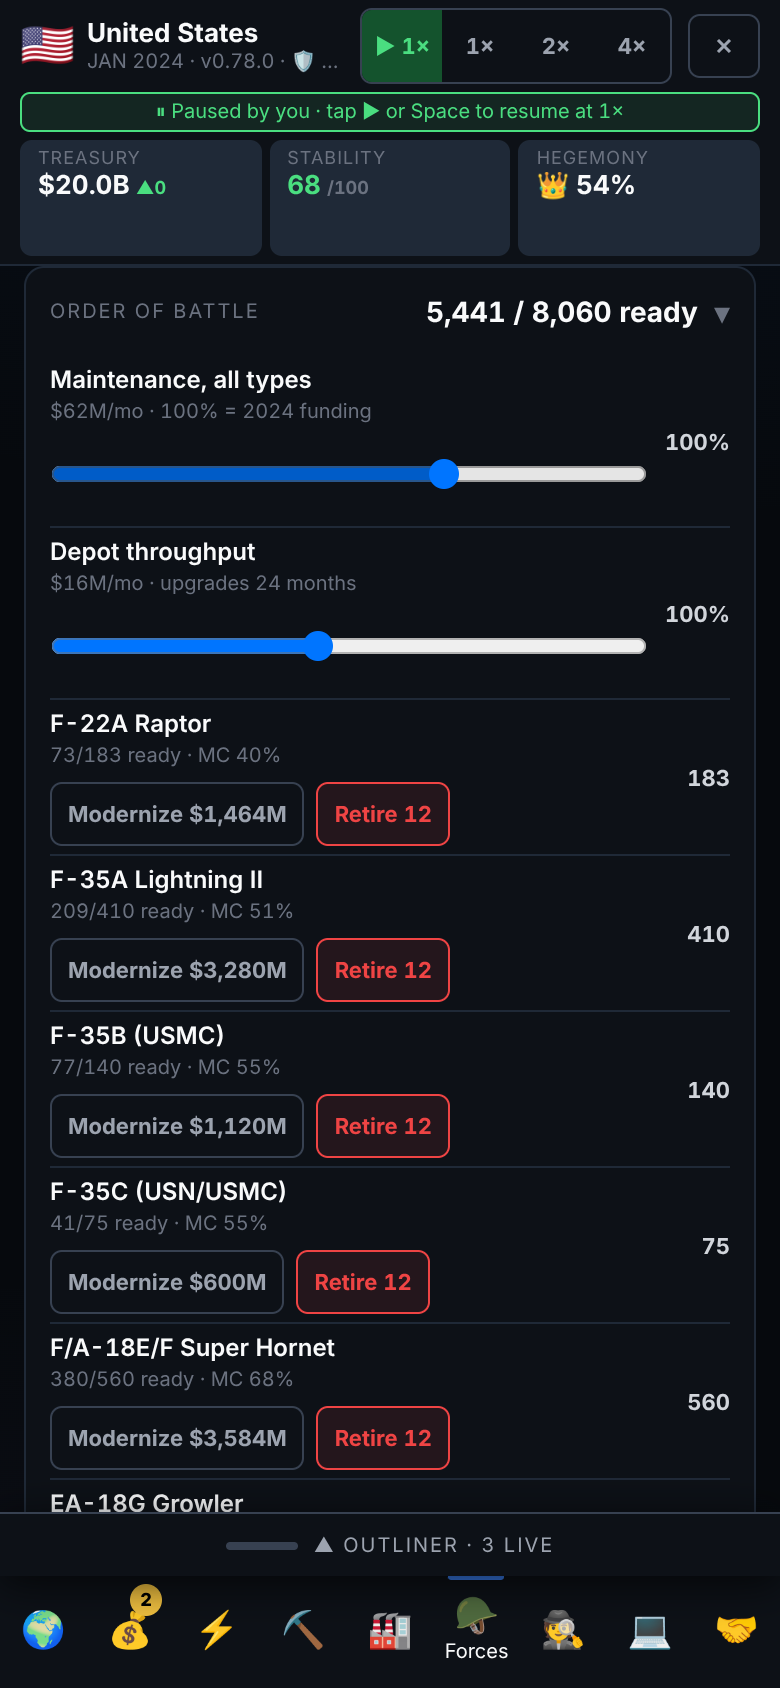
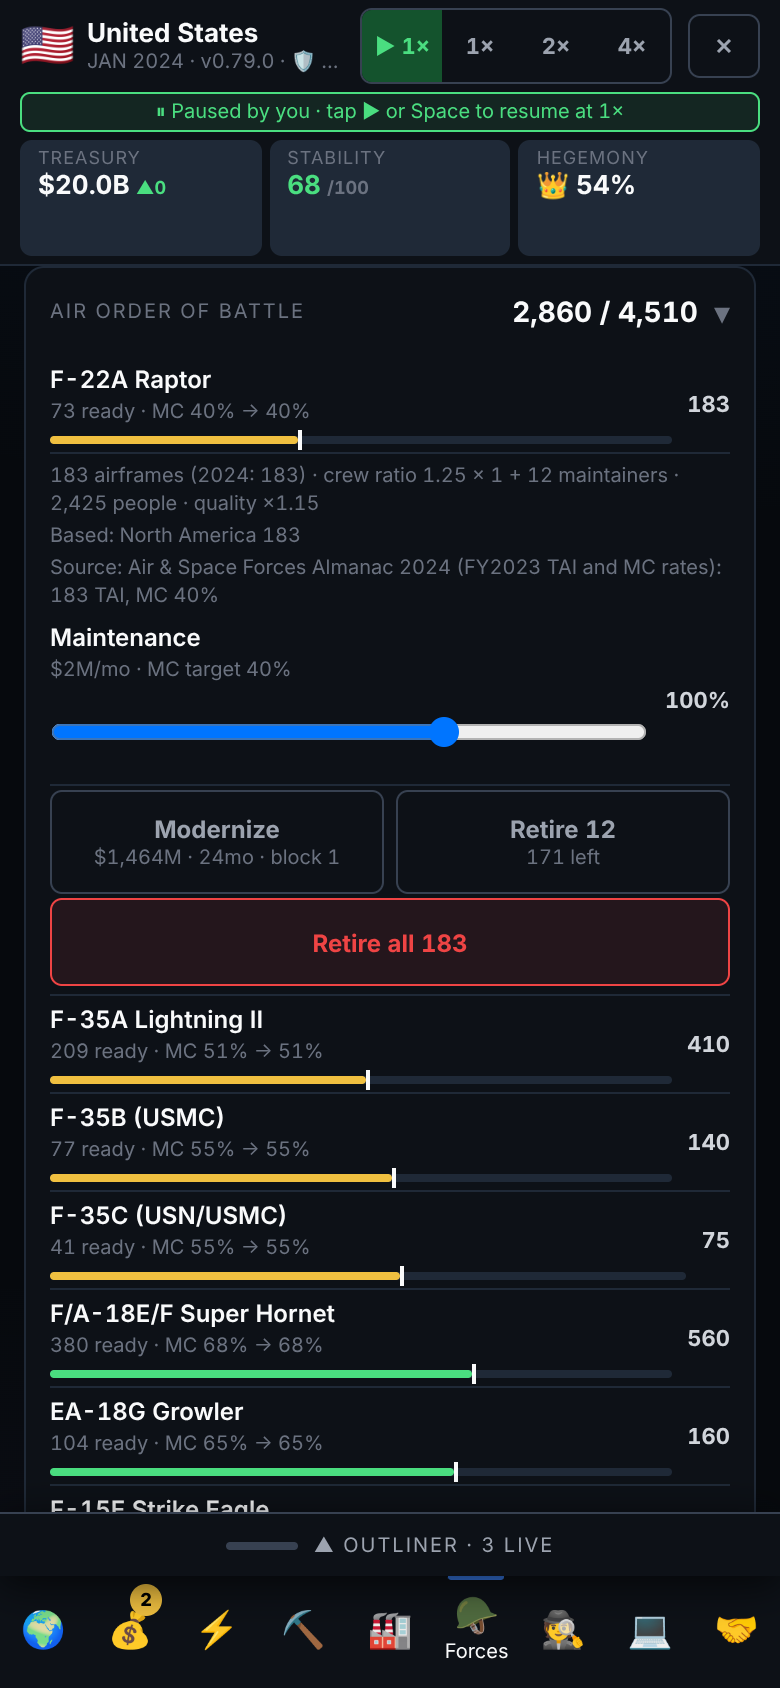
forces ui: real order of battle on Equipment, Training and Manpower; modernize and retire (F7c, #55), v0.80.0
Claude-Session: https://claude.ai/code/session_01XUpfs6Gq1EnUQUCe4XoAj1

diff --git a/src/ui/forces/ForcesTab.jsx b/src/ui/forces/ForcesTab.jsx
@@ -18,19 +18,34 @@ export const FORCES_SUBS = [
   { id: 'equipment', label: 'Equipment' }, { id: 'specialized', label: 'Special' },
 ];
 const R = FORCE_RULES;
+// Headcounts and money, one formatter each (F7 #55).
+const hc = (x) => Math.round(x).toLocaleString('en-US');
+const pc = (x) => `${Math.round(x * 100)}%`;
 const BRANCH_N = Object.fromEntries(BRANCHES);
 
+// F7 (#55): strength as headcounts against the 2024 force and the population bound; recruits as propensity of the eligible cohort.
+function strengthPanel(fv, fl, pay) {
+  const m = fl.manpower; const a = fv.idx.active; const used = (m.active + m.reserve) / m.cap;
+  const terms = [{ label: '2024 propensity', value: m.prop0 }, { label: 'Labor market vs start', value: m.labor / (m.base.labor || 1) }, { label: `Pay ${pay}%`, value: pay / 100 }, { label: 'Stability vs start', value: m.stab / (m.base.stab || 1) }];
+  return <Panel id="strength" title="Strength" figure={hc(m.active)} tone={tone(a, 30, 50)}>
+    <Row title="Active" sub={`${pc(m.active / m.base.active)} of the 2024 force (${hc(m.base.active)})`} value={hc(m.active)}><Bar pct={a} tone={tone(a, 30, 50)} marker={60} /></Row>
+    <Row title="Reserve" sub={`Leavers feed it ${R.reserveIn * 100}% · 2024: ${hc(m.base.reserve)}`} value={hc(m.reserve)}><Bar pct={fv.idx.reserve} marker={36} /></Row>
+    <Row title="Recruits" sub={`Next month · eligible intake ${hc(m.intakeMax)}/mo x propensity ${pc(m.prop)}`} value={<WhyV title="Propensity (share of the eligible who enlist)" mult total={m.prop} terms={terms} fmt={(x) => x.toFixed(3)}>+{hc(m.next.recruits)}/mo</WhyV>} />
+    <Row title="Attrition" sub={`Next month · leavers move to the reserve · retention ${Math.round(fv.retention)}%`} value={`−${hc(m.next.attrition)}/mo`} tone="alert" />
+    <Row title="Population bound" sub={`Active + reserve vs eligible military age (${hc(m.cap)})`} value={pc(used)} tone={used > 0.8 ? 'alert' : undefined}><Bar pct={used * 100} /></Row>
+    <div className="wl-note">Sources: {m.status_source}.</div>
+  </Panel>;
+}
+
 function Manpower({ fv, v, dispatch }) {
-  const pay = fv.pay;
+  const pay = fv.pay; const fl = fleetView(v);
   const units = Object.values(v.platforms).reduce((a, b) => a + (b || 0), 0) + Object.values(v.platformsImported).reduce((a, b) => a + (b || 0), 0);
   const payroll = Math.round(units * 3 * (pay / 100) + fv.payroll);
   return <>
-    <Panel id="strength" title="Strength" figure={`${f0(fv.idx.active)} / 100`} tone={tone(fv.idx.active, 30, 50)}>
+    {fl?.manpower ? strengthPanel(fv, fl, pay) : <Panel id="strength" title="Strength" figure={`${f0(fv.idx.active)} / 100`} tone={tone(fv.idx.active, 30, 50)}>
       <Row title="Active" sub="60 = a fully manned 2024 force" value={f1(fv.idx.active)}><Bar pct={fv.idx.active} tone={tone(fv.idx.active, 30, 50)} marker={60} /></Row>
-      <Row title="Reserve" sub={`Attrition feeds it ${R.reserveIn * 100}%`} value={f1(fv.idx.reserve)}><Bar pct={fv.idx.reserve} /></Row>
       <Row title="Recruits" sub="Unemployment and pay set the intake" value={`+${f0(fv.recruits)}/mo`} />
-      <Row title="Attrition" sub="Leavers move to the reserve" value={`−${f0(fv.attrition)}/mo`} tone="alert" />
-    </Panel>
+    </Panel>}
     <Panel id="retention" title="Retention" figure={`${Math.round(fv.retention)}%`} tone={tone(fv.retention, 35, 50)}>
       <Row title="Retention now" sub={`Closes ${R.retLag * 100}% of the gap each month`} value={<WhyV title="Retention target" terms={fv.retTerms} total={fv.retTarget}>→ {Math.round(fv.retTarget)}%</WhyV>} tone={fv.retTarget < fv.retention - 1 ? 'alert' : undefined}><Bar pct={fv.retention} tone={tone(fv.retention, 35, 50)} marker={fv.retTarget} /></Row>
       <div className="wl-note">Pay against civilian wages, stability and the labor market. Payroll ${payroll}M/mo ({units} units + manpower).</div>
@@ -61,7 +76,8 @@ function Quality({ fv, onJump }) {
   </>;
 }
 
-function Training({ fv, ask, dispatch }) {
+function Training({ fv, v, ask, dispatch }) {
+  const fl = fleetView(v);
   const setLevel = (i) => {
     const l = fv.levels[i];
     if (i === 0 && fv.train !== 0) ask({ title: 'Unfund training', cost: '$0M/mo (saves $' + fv.levels[fv.train].cost + 'M/mo)', kind: 'alert', label: 'Unfund', lines: [`Readiness decays 1 point a month toward ${l.target}.`, 'No new crews enter the pipelines.', 'Units without trained crews cannot be stationed.'], run: () => dispatch({ type: 'setTraining', payload: { level: i } }) });
@@ -80,6 +96,15 @@ function Training({ fv, ask, dispatch }) {
           value={`${f0(b.readiness)} → ${b.target}`} tone={b.decayMo != null ? 'alert' : tone(b.readiness, 50, 70)}><Bar pct={b.readiness} tone={tone(b.readiness, 50, 70)} marker={b.target} /></Row>))}
       <div className="wl-note">Readiness rises up to {R.riseMo}/mo and decays {R.decayMo}/mo above its funded level.</div>
     </Panel>
+    {fl && <Panel id="fleetcrews" title="Fleet crews and readiness" figure={`${hc(fl.lines.reduce((a, l) => a + l.ready, 0))} ready`} data-forces-fleetcrews>
+      {fl.branches.map((b) => {
+        const ls = fl.lines.filter((l) => l.b === b.id && l.count > 0); const n = ls.reduce((a, l) => a + l.count, 0);
+        const crewless = ls.reduce((a, l) => a + l.crewless, 0); const mc = n ? ls.reduce((a, l) => a + l.mc * l.count, 0) / n : 0;
+        return <Row key={b.id} data-fleet-branch={b.id} title={`${b.n}: ${hc(b.ready)} of ${hc(n)} ready`} sub={`Crews ${hc(b.pool)} for ${hc(b.need)} needed · MC ${Math.round(mc)}% avg${crewless ? ` · ${hc(crewless)} crewless` : ''} · capability ×${f2(b.equip)}`}
+          value={pc(b.fill)} tone={b.fill < 1 ? 'alert' : 'good'}><Bar pct={b.fill * 100} tone={b.fill < 1 ? 'alert' : 'good'} /></Row>;
+      })}
+      <div className="wl-note">Crews are people: pilots per airframe, crew per hull, maintainers per platform. Platforms beyond the crews sit unready.</div>
+    </Panel>}
     <Panel id="pipelines" title="Crew pipelines" figure={`${fv.pipe.length} training`}>
       {fv.branches.map((b) => {
         const mine = fv.pipe.filter((p) => p.b === b.id).map((p) => p.mo).sort((x, y) => x - y);
@@ -89,8 +114,8 @@ function Training({ fv, ask, dispatch }) {
   </>;
 }
 
-function Equipment({ fv, v, dispatch, toast }) {
-  const fl = fleetView(v);
+function Equipment({ fv, v, ask, dispatch, toast }) {
+  const fl = fleetView(v); const [selLine, setSelLine] = useState(null);
   const own = (pid) => (BLACK_PROGRAMS[pid] ? +v.blackPrograms[pid] || 0 : (v.platforms[pid] || 0) + (v.platformsImported[pid] || 0));
   const meta = (pid) => PLATFORMS[pid] || BLACK_PROGRAMS[pid];
   const ids = [...Object.keys(PLATFORMS), ...Object.keys(BLACK_PROGRAMS)].filter((pid) => own(pid) > 0);
@@ -104,7 +129,8 @@ function Equipment({ fv, v, dispatch, toast }) {
     dispatch({ type: 'deployUnit', payload: { region: rid, unit: pid } });
   };
   return <>
-    {fleetPanel(fl, dispatch)}
+    {fl && fleetSummary(fl, dispatch)}
+    {fl && fleetBranches(fl, selLine, setSelLine, ask, dispatch)}
     <Panel id="crews" title="Crews vs airframes and hulls" figure={fv.branches.some((b) => b.gap > 0) ? 'gap' : 'covered'} tone={fv.branches.some((b) => b.gap > 0) ? 'alert' : 'good'} data-forces-crews>
       {fv.branches.map((b) => (
         <Row key={b.id} title={b.n} sub={`${b.crews} crews / ${b.need} needed · ${b.deployed} stationed${b.pipe ? ` · ${b.pipe} training` : ''}`} value={b.gap > 0 ? `gap ${b.gap}` : 'covered'} tone={b.gap > 0 ? 'alert' : 'good'}>
@@ -139,27 +165,57 @@ function Equipment({ fv, v, dispatch, toast }) {
   </>;
 }
 
-// F7 (#55): the order of battle. Render helper, not a component (CLAUDE.md rule 4).
-const RETIRE_STEP = { airframe: 12, hull: 1, formation: 1, launcher: 10 };
-function fleetPanel(fl, dispatch) {
-  if (!fl) return null;
+// F7 (#55): the order of battle. Render helpers, not components (CLAUDE.md rule 4); the selected type lives in Equipment's state.
+const RETIRE_STEP = { airframe: 12, hull: 1, formation: 1, launcher: 50 };
+const CLS_N = { airframe: 'airframes', hull: 'hulls', formation: 'formations', launcher: 'launchers' };
+function fleetSummary(fl, dispatch) {
   const n = fl.lines.reduce((a, l) => a + l.count, 0); const ready = fl.lines.reduce((a, l) => a + l.ready, 0);
   const mx = Math.round(fl.lines.reduce((a, l) => a + l.mx, 0) / Math.max(1, fl.lines.length));
-  return <Panel id="fleet" title="Order of battle" figure={`${ready.toLocaleString()} / ${n.toLocaleString()} ready`} data-forces-fleet>
+  return <Panel id="fleet" title="Order of battle" figure={`${hc(ready)} / ${hc(n)} ready`} data-forces-fleet>
     <Row title="Maintenance, all types" sub={`$${Math.round(fl.maintenance)}M/mo · 100% = 2024 funding`} value={`${mx}%`}>
-      <input className="wl-slider" type="range" min="0" max="150" step="5" value={mx} aria-label="Maintenance budget" onChange={(e) => dispatch({ type: 'setMaintenance', payload: { line: 'all', pct: +e.target.value } })} />
+      <input className="wl-slider" type="range" min="0" max="150" step="5" value={mx} aria-label="Maintenance budget, all types" onChange={(e) => dispatch({ type: 'setMaintenance', payload: { line: 'all', pct: +e.target.value } })} />
     </Row>
-    <Row title="Depot throughput" sub={`$${Math.round(fl.depotCost)}M/mo · upgrades ${fl.modMo} months`} value={`${fl.depot}%`}>
+    <Row title="Depot throughput" sub={`$${Math.round(fl.depotCost)}M/mo · upgrades take ${fl.modMo} months · faster MC recovery`} value={`${fl.depot}%`}>
       <input className="wl-slider" type="range" min="20" max="200" step="10" value={fl.depot} aria-label="Depot throughput" onChange={(e) => dispatch({ type: 'setDepot', payload: { pct: +e.target.value } })} />
     </Row>
-    {fl.lines.map((l) => <Row key={l.id} data-line={l.id} title={l.n} stack
-      sub={`${l.ready}/${l.count} ready · MC ${Math.round(l.mc)}%${l.crewless ? ` · ${l.crewless} crewless` : ''}${l.blk ? ` · block ${l.blk}` : ''}${l.mod ? ` · depot ${l.mod}mo` : ''}`} value={l.count.toLocaleString()} tone={l.crewless ? 'alert' : undefined}>
-      {l.count > 0 && <div className="wl-row" style={{ flexWrap: 'wrap', gap: 6, marginTop: 4 }}>
-        <button type="button" className="wl-btn wl-btn-sm" disabled={!!l.modWhy} title={l.modWhy || ''} data-modernize={l.id} onClick={() => dispatch({ type: 'modernize', payload: { line: l.id } })}>Modernize ${l.modCost.toLocaleString()}M</button>
-        <button type="button" className="wl-btn wl-btn-sm wl-btn-alert" data-retire={l.id} onClick={() => dispatch({ type: 'retire', payload: { line: l.id, n: RETIRE_STEP[l.cls] || 1 } })}>Retire {Math.min(l.count, RETIRE_STEP[l.cls] || 1)}</button>
-      </div>}
-    </Row>)}
+    <div className="wl-note">Mission-capable (MC) rates move toward their target about {Math.round(fl.rules.converge * 100)}% of the gap a month. A 10% maintenance cut shows within a year.</div>
   </Panel>;
+}
+function lineRow(l, sel, onSel) {
+  return <Row key={l.id} data-line={l.id} title={l.n} role="button" tabIndex={0} aria-expanded={sel} onClick={onSel} onKeyDown={(e) => { if (e.key === 'Enter' || e.key === ' ') { e.preventDefault(); onSel(); } }} style={{ cursor: 'pointer' }}
+    sub={`${hc(l.ready)} ready · MC ${Math.round(l.mc)}% → ${Math.round(l.target)}%${l.crewless ? ` · ${hc(l.crewless)} crewless` : ''}${l.blk ? ` · block ${l.blk}` : ''}${l.mod ? ` · depot ${l.mod}mo` : ''}${l.mx !== 100 ? ` · maint ${l.mx}%` : ''}`}
+    value={hc(l.count)} tone={l.crewless ? 'alert' : l.count < l.count2024 ? 'warn' : undefined}><Bar pct={l.mc} tone={tone(l.mc, 40, 60)} marker={l.target} /></Row>;
+}
+function lineDetail(l, fl, ask, dispatch) {
+  const step = Math.min(l.count, RETIRE_STEP[l.cls] || 1);
+  const retire = (n) => ask({ title: `Retire ${hc(n)} ${l.n}`, cost: `saves about $${Math.round(l.cost * n / Math.max(1, l.count))}M/mo maintenance`, kind: 'alert', label: 'Retire',
+    lines: [`${hc(l.count - n)} left in service. Retired ${CLS_N[l.cls]} do not come back; procurement adds new ones to this line.`, 'Their crews return to the pool for the rest of the fleet.'], run: () => dispatch({ type: 'retire', payload: { line: l.id, n } }) });
+  const modernize = () => ask({ title: `${l.n}: block ${l.blk + 1} upgrade`, cost: `$${hc(l.modCost)}M once`, kind: 'warn', label: 'Start upgrade',
+    lines: [`${fl.modMo} months in the depot at ${fl.depot}% throughput; ${Math.round(fl.rules.modShare * 100)}% of the fleet is unavailable meanwhile.`, `Then +${Math.round(fl.rules.blkGain * 100)}% effectiveness and +${Math.round(fl.rules.mcBlk * 100)}% MC target.`], run: () => dispatch({ type: 'modernize', payload: { line: l.id } }) });
+  return <div className="wl-r wl-r-stack" data-line-detail={l.id} key={`${l.id}-detail`}>
+    <div className="wl-r-main">
+      <small>{hc(l.count)} {CLS_N[l.cls]} (2024: {hc(l.count2024)}{l.lost ? `, ${l.lost} lost` : ''}) · crew ratio {l.crewRatio} x {hc(l.crewSize)}{l.maintainers ? ` + ${l.maintainers} maintainers` : ''} · {hc(l.heads)} people · quality ×{f2(l.quality)}</small>
+      <small>Based: {Object.entries(l.at).map(([r, k]) => `${REGIONS[r]?.n || r} ${hc(k)}`).join(' · ') || 'none'}{l.buys.length ? ` · procurement: ${l.buys.join(', ')}` : ''}</small>
+      <small>Source: {l.status_source}</small>
+      <Row title="Maintenance" sub={`$${Math.round(l.cost)}M/mo · MC target ${Math.round(l.target)}%`} value={`${l.mx}%`}>
+        <input className="wl-slider" type="range" min="0" max="150" step="5" value={l.mx} aria-label={`Maintenance ${l.n}`} onChange={(e) => dispatch({ type: 'setMaintenance', payload: { line: l.id, pct: +e.target.value } })} />
+      </Row>
+      <div className="wl-grid2">
+        <button type="button" className="wl-lvl" disabled={!!l.modWhy} data-modernize={l.id} onClick={modernize}>Modernize<small>{l.modWhy || `$${hc(l.modCost)}M · ${fl.modMo}mo · block ${l.blk + 1}`}</small></button>
+        <button type="button" className="wl-lvl" disabled={!l.count} data-retire={l.id} onClick={() => retire(step)}>Retire {hc(step)}<small>{l.count ? `${hc(l.count - step)} left` : 'none in service'}</small></button>
+      </div>
+      {l.count > step && <button type="button" className="wl-btn wl-btn-alert" data-retire-all={l.id} onClick={() => retire(l.count)}>Retire all {hc(l.count)}</button>}
+    </div>
+  </div>;
+}
+function fleetBranches(fl, selId, setSel, ask, dispatch) {
+  return BRANCHES.map(([bid, bn]) => {
+    const ls = fl.lines.filter((l) => l.b === bid); const b = fl.branches.find((x) => x.id === bid);
+    return <Panel key={bid} id={`fleet_${bid}`} title={`${bn} order of battle`} figure={`${hc(b.ready)} / ${hc(b.count)}`} tone={b.fill < 1 ? 'alert' : undefined} data-fleet-panel={bid}>
+      {ls.map((l) => [lineRow(l, selId === l.id, () => setSel(selId === l.id ? null : l.id)), selId === l.id ? lineDetail(l, fl, ask, dispatch) : null])}
+      <div className="wl-note">Tap a type to set its maintenance, modernize or retire it. Bar: MC now, marker: target.</div>
+    </Panel>;
+  });
 }
 
 function Specialized({ fv, v, ask, dispatch }) {
@@ -203,8 +259,8 @@ export function ForcesTab({ sub, onSub, view, dispatch, toast, onJump }) {
   const fv = forceView(view);
   const gaps = fv.branches.filter((b) => b.gap > 0).length;
   const items = FORCES_SUBS.map((s) => (s.id === 'equipment' && gaps ? { ...s, badge: gaps, sev: 'alert' } : s));
-  const body = sub === 'quality' ? <Quality fv={fv} onJump={onJump} /> : sub === 'training' ? <Training fv={fv} ask={setAct} dispatch={dispatch} />
-    : sub === 'equipment' ? <Equipment fv={fv} v={view} dispatch={dispatch} toast={toast} /> : sub === 'specialized' ? <Specialized fv={fv} v={view} ask={setAct} dispatch={dispatch} />
+  const body = sub === 'quality' ? <Quality fv={fv} onJump={onJump} /> : sub === 'training' ? <Training fv={fv} v={view} ask={setAct} dispatch={dispatch} />
+    : sub === 'equipment' ? <Equipment fv={fv} v={view} ask={setAct} dispatch={dispatch} toast={toast} /> : sub === 'specialized' ? <Specialized fv={fv} v={view} ask={setAct} dispatch={dispatch} />
     : <Manpower fv={fv} v={view} dispatch={dispatch} />;
   return (
     <div className="wl-pane-wrap" data-sentinel="forces">

diff --git a/test/layout.test.js b/test/layout.test.js
@@ -98,10 +98,10 @@ for (const [W, H] of [[390, 844], [1280, 800]]) {
       assert.deepEqual(segs.map((x) => x.id), ['manpower', 'quality', 'training', 'equipment', 'specialized']);
       for (const x of segs) assert.ok(x.h >= 44 && x.w >= 44 && x.r <= W + 0.5, `segment ${JSON.stringify(x)}`);
       const want = {
-        manpower: [/Strength/, /Retention/, /Personnel pay/, /Recruits/],
+        manpower: [/Strength/, /Retention/, /Personnel pay/, /Recruits/, /1,283,000/, /Population bound/], // F7 (#55): headcounts
         quality: [/Force quality index/, /Education/, /Healthcare/, /Food security/, /Stability/, /Equality/],
-        training: [/Unfunded/, /Intensive/, /Readiness by branch/, /Crew pipelines/],
-        equipment: [/Crews vs airframes/, /gap 4/, /Theater summary/, /Maintenance/, /F-47/],
+        training: [/Unfunded/, /Intensive/, /Readiness by branch/, /Crew pipelines/, /Fleet crews and readiness/, /Air: [\d,]+ of [\d,]+ ready/],
+        equipment: [/Crews vs airframes/, /gap 4/, /Theater summary/, /Maintenance/, /F-47/, /Order of battle/, /F-22A Raptor/, /Depot throughput/],
         specialized: [/Train Tier 2/, /Tier 1 selection/, /1st SFOD-D/, /ISR score/, /Cyber Command/, /Nuclear crews/],
       };
       for (const [id, res] of Object.entries(want)) {
@@ -113,8 +113,16 @@ for (const [W, H] of [[390, 844], [1280, 800]]) {
         const small = await page.evaluate(() => [...document.querySelectorAll('[data-forces] .wl-r, [data-forces] .wl-p-head, [data-forces] select, [data-forces] input')].filter((e) => e.getBoundingClientRect().height < 43.5).map((e) => e.className || e.tagName));
         assert.deepEqual(small, [], `${id}: rows under 44px`);
       }
+      // F7 (#55): tap a type, retire a squadron through the confirm sheet; the count drops, the detail stays on screen.
+      await seg(page, 'equipment');
+      await page.evaluate(() => document.querySelector('[data-line=f22]').click()); await settle(page, 200);
+      const det = await page.evaluate(() => { const r = document.querySelector('[data-line-detail=f22]').getBoundingClientRect(); return { r: r.right, t: document.querySelector('[data-line-detail=f22]').innerText }; });
+      assert.ok(det.r <= W + 0.5 && /Source: Air & Space Forces Almanac/.test(det.t) && /Modernize/.test(det.t), 'type detail with source and actions');
+      await page.evaluate(() => document.querySelector('[data-retire=f22]').click()); await settle(page, 300);
+      await page.evaluate(() => document.querySelector('[data-confirm-ok]').click()); await settle(page, 300);
+      assert.match(await page.evaluate(() => document.querySelector('[data-line=f22]').innerText), /171/);
       await seg(page, 'manpower');
-      assert.ok(await page.evaluate(() => !!document.querySelector('input[type=range][min="0"][max="150"]')), 'pay slider reaches 0');
+      assert.ok(await page.evaluate(() => !!document.querySelector('[data-forces] input[type=range][min="0"][max="150"][aria-label="Personnel pay"]')), 'pay slider reaches 0');
       assert.deepEqual(errors, []);
     } finally { await ctx.close(); }
   });

diff --git a/scripts/screens.js b/scripts/screens.js
@@ -140,7 +140,12 @@ for (const [tag, setup] of [['390', async () => {}], ['1280', desk]]) {
 // F7 (#55): the order of battle on Forces > Equipment and Training.
 const toSub = async (page, label) => { await page.evaluate((l) => [...document.querySelectorAll('.wl-pane-wrap[data-sentinel=forces] button')].find((b) => b.textContent.trim().startsWith(l))?.click(), label); await settle(page, 300); };
 SCENARIOS['f7-equipment-390'] = async (page) => { await inGame(page); await pause(page); await page.evaluate(() => window.__wl.fund(20000)); await toForces(page); await toSub(page, 'Equipment');
-  await page.evaluate(() => document.querySelector('[data-forces-fleet]')?.scrollIntoView({ block: 'start' })); await settle(page, 300); };
+  await page.evaluate(() => document.querySelector('[data-line=f22]')?.click()); await settle(page, 300);
+  await page.evaluate(() => document.querySelector('[data-fleet-panel=air]')?.scrollIntoView({ block: 'start' })); await settle(page, 300); };
+SCENARIOS['f7-equipment-detail-390'] = async (page) => { await SCENARIOS['f7-equipment-390'](page); await page.evaluate(() => document.querySelector('[data-line-detail=f22]')?.scrollIntoView({ block: 'center' })); await settle(page, 300); };
+SCENARIOS['f7-training-390'] = async (page) => { await inGame(page); await pause(page); await page.evaluate(() => { const h = window.__wl; h.fund(20000); }); await toForces(page); await toSub(page, 'Training');
+  await page.evaluate(() => document.querySelector('[data-forces-fleetcrews]')?.scrollIntoView({ block: 'start' })); await settle(page, 300); };
+SCENARIOS['f7-manpower-390'] = async (page) => { await inGame(page); await pause(page); await toForces(page); await toSub(page, 'Manpower'); };
 SCENARIOS['p3d-hud-doctrine-390'] = async (page) => { await startUSA(page); await settle(page, 700); };
 SCENARIOS['p3d-nav-econ-390'] = async (page) => { await inGame(page); await pause(page); await page.evaluate(() => document.querySelector('[data-tab=technology]').click()); await settle(page, 500); };
 

diff --git a/src/sim/forces.js b/src/sim/forces.js
@@ -310,5 +310,5 @@ export function fleetView(g) {
     count: lines.filter((x) => x.b === b).reduce((a, x) => a + x.count, 0), ready: lines.filter((x) => x.b === b).reduce((a, x) => a + x.ready, 0) }));
   return { lines, branches, depot: f.depot ?? 100, maintenance: maintCost(f), depotCost: depotCost(f), modMo: modMonths(f), rules: FL,
     manpower: m && { active: f.active, reserve: f.reserve, base: f.base, cap: manpowerCap(f.nid), prop: propensityOf(m, s0, pay, f.base), prop0: propensity0(m),
-      intakeMax: intakeMax(m), recruits: f.recruits, attrition: f.attrition, labor: recruitLabor(s0), stab: stabProp(s0), status_source: m.status_source } };
+      intakeMax: intakeMax(m), recruits: f.recruits, attrition: f.attrition, next: manpowerStep(f, s0, pay, f.retention), labor: recruitLabor(s0), stab: stabProp(s0), status_source: m.status_source } };
 }

diff --git a/CHANGELOG.md b/CHANGELOG.md
@@ -1,5 +1,12 @@
 # Changelog
 
+## 0.80.0 (2026-10-11) — F7c (#55): Forces tab shows the real order of battle
+- UI only, no rule change; parity goldens untouched.
+- Equipment: Order of battle summary (ready / total, maintenance all types, depot throughput with cost and upgrade months), then Air, Sea and Land panels with every type: count, ready, MC now with its target as the bar marker, crewless, block, depot months. Tap a type for its detail: 2024 count and losses, crew ratio and people, per-type quality, basing, procurement units, source line, a per-type maintenance slider, Modernize and Retire (a squadron, or all) through the confirm sheet with cost and consequences.
+- Training: Fleet crews and readiness per branch (ready of total, crew people available vs needed, average MC, crewless, capability factor).
+- Manpower: headcounts (US 1,283,000 active, 761,000 reserve) against the 2024 force, next month's recruits and attrition from the engine's own step with a propensity why (2024 propensity x labor x pay x stability), and the population bound.
+- Tests: the Forces layout test checks the real numbers on Manpower, Training and Equipment and runs tap type -> Retire 12 -> confirm -> 171 left at 390 and 1280px, 44px rows. Screens: `reports/screens/f7-{equipment,equipment-detail,training,manpower}-390.png`.
+
 ## 0.79.0 (2026-10-11) — F7b (#55): tangible order of battle, engine
 - Intentional rule change (spec Part 9). `g.forces` gains the fleet: every nation starts with its 2024 order of battle (F7a data), per line {n, mc, mx, blk, mod, loss, lost, at}. US: 47 types, 8,047 platforms, 5,431 ready at start.
 - Manpower is headcounts (US 1,283,000 active / 761,000 reserve). Recruits = eligible cohort intake x propensity (2024 accessions, moved by unemployment, pay and stability relative to the start, max 1). Baseline turnover = 2024 intake / 2024 force; retention below 50 adds the E8 exits. Active + reserve never pass military-age x eligibility. `manPts` maps headcounts onto the old index (60 = 2024), so pay, crew pools and strength keep their scale.
